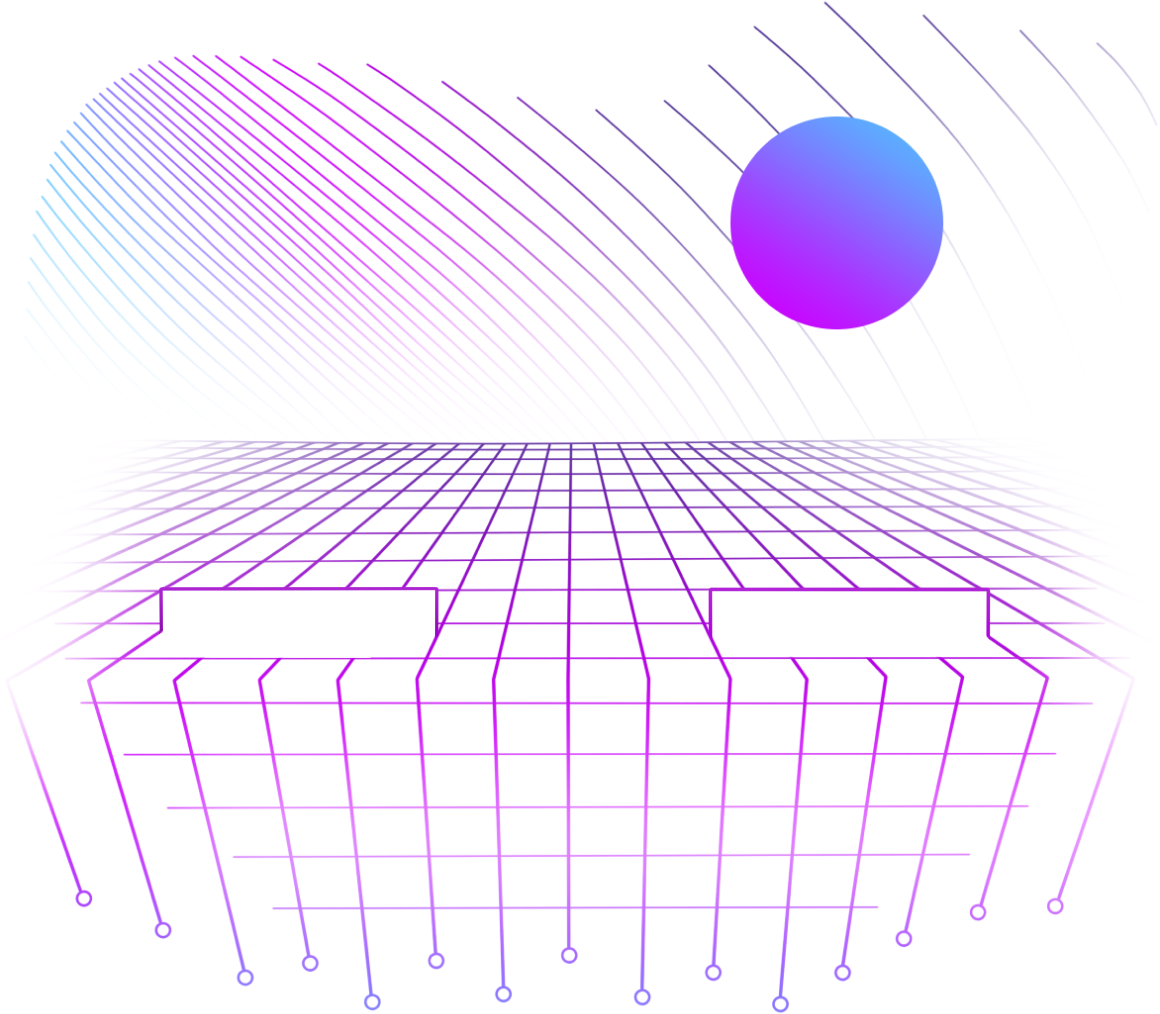
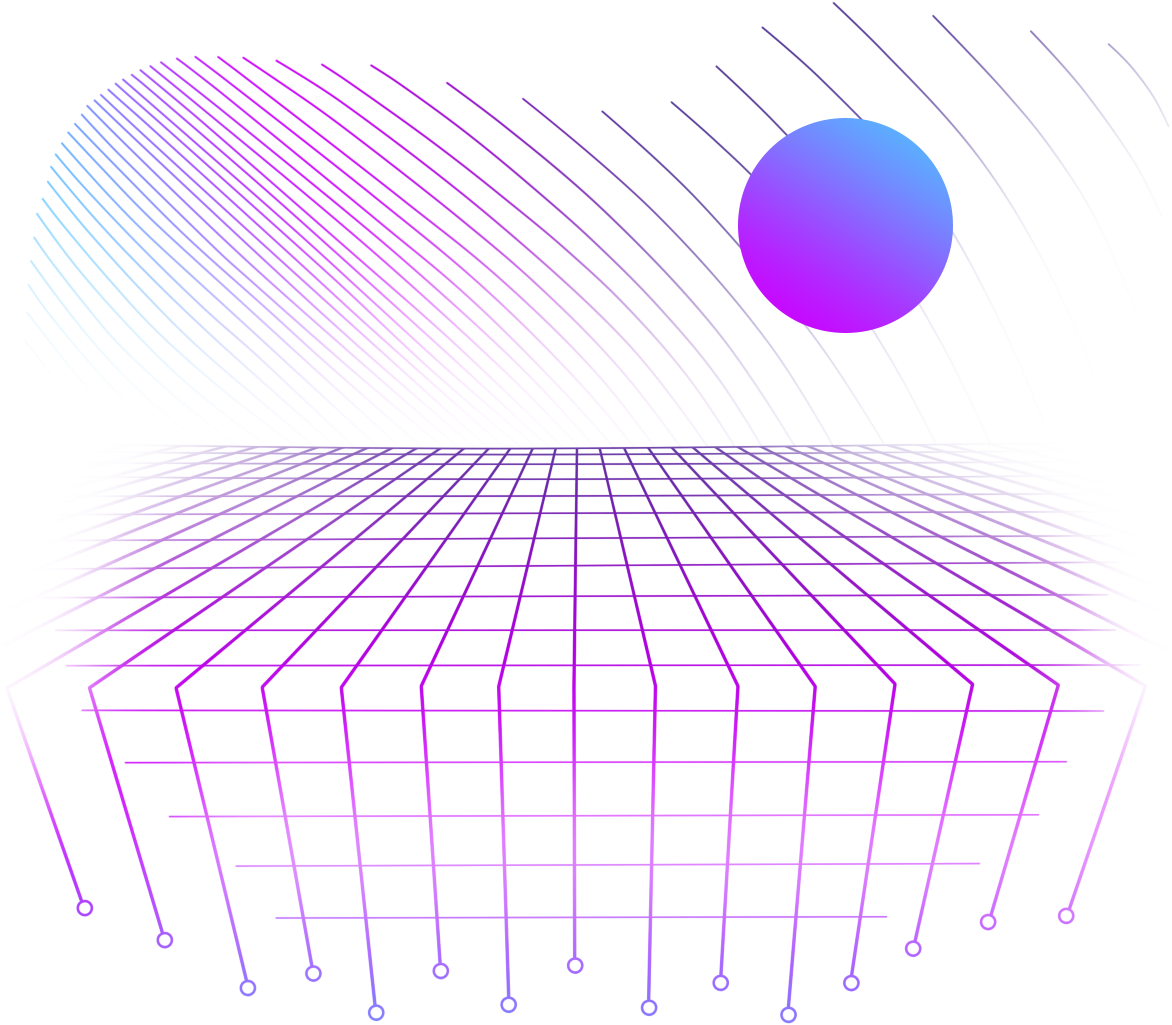
button from main removed. Title removed

Changed region(s): [[0.1241, 0.5809, 0.4034, 0.642], [0.5897, 0.5809, 0.869, 0.642]]

diff --git a/pages-content/home/mainScreen/mainScreen.module.scss b/pages-content/home/mainScreen/mainScreen.module.scss
@@ -1,194 +1,99 @@
 @use '../../../assets/styles/index.scss' as *;
 
 .mainScreen {
-    width: 100%;
-    padding: 0 rem(350);
-    margin-top: rem(100);
-    @media screen and (max-width: point(lg)) {
-        padding: 0 rem(150);
-    }
-    @media screen and (max-width: point(md)) {
-        padding: 0 rem(100);
-    }
-    @media screen and (max-width: point(sm)) {
-        padding: 0 rem(16);
-    }
+  width: 100%;
+  padding: 0 rem(350);
+  margin-top: rem(100);
+  @media screen and (max-width: point(lg)) {
+    padding: 0 rem(150);
+  }
+  @media screen and (max-width: point(md)) {
+    padding: 0 rem(100);
+  }
+  @media screen and (max-width: point(sm)) {
+    padding: 0 rem(16);
+  }
 }
 
 .mainScreen__content {
-    position: relative;
+  position: relative;
+  width: 100%;
+  height: 100%;
+  display: flex;
+  justify-content: center;
+  align-items: center;
+
+  .content__background {
     width: 100%;
     height: 100%;
-    display: flex;
-    justify-content: center;
+    z-index: -1;
+  }
+
+  .backgroundMobile {
+    display: none !important;
+    width: 100%;
+
+    > span {
+      width: 100% !important;
+      left: 50% !important;
+      transform: translateX(-50%) scale(1.1) !important;
+    }
+    img {
+      min-width: 100% !important;
+      height: auto !important;
+    }
+
+    @media screen and (max-width: point(sm)) {
+      display: flex !important;
+      align-items: center;
+      justify-content: center;
+    }
+  }
+  .backgroundDesktop {
+    display: flex !important;
     align-items: center;
-
-    .content__background {
-        width: 100%;
-        height: 100%;
-        z-index: -1;
+    justify-content: center;
+    width: 100%;
+    > span {
+      width: 100% !important;
+    }
+    img {
+      min-width: 100% !important;
+      height: auto !important;
     }
 
-    .backgroundMobile {
-        display: none !important;
-        width: 100%;
-
-        > span {
-            width: 100% !important;
-            left: 50% !important;
-            transform: translateX(-50%) scale(1.1) !important;
-        }
-        img {
-            min-width: 100% !important;
-            height: auto !important;
-        }
-
-        @media screen and (max-width: point(sm)) {
-            display: flex !important;
-            align-items: center;
-            justify-content: center;
-        }
+    @media screen and (max-width: point(sm)) {
+      display: none !important;
     }
-    .backgroundDesktop {
-        display: flex !important;
-        align-items: center;
-        justify-content: center;
-        width: 100%;
-        > span {
-            width: 100% !important;
-        }
-        img {
-            min-width: 100% !important;
-            height: auto !important;
-        }
-
-        @media screen and (max-width: point(sm)) {
-            display: none !important;
-        }
-    }
-
-    .content__buttons {
-        position: absolute;
-        top: 0; left: 0;
-        width: 100%;
-        height: 100%;
-        display: flex;
-        justify-content: center;
-        align-items: center;
-        z-index: 1;
-        @media screen and (max-width: point(sm)) {
-            flex-direction: column;
-
-            > :first-child {
-                margin-top: rem(65);
-            }
-            > :not(:first-child) {
-                margin-top: rem(37);
-            }
-        }
-    }
-    
+  }
 }
 
 .mainScreen__title {
+  position: absolute;
+  max-width: rem(478);
+  z-index: 2;
+  top: rem(180);
+  left: rem(140);
+  @media screen and (max-width: point(md)) {
+    left: rem(0);
+    top: rem(110);
+  }
+  @media screen and (max-width: point(sm)) {
+    max-width: rem(210);
+    left: rem(10);
+    top: rem(10);
+  }
+
+  &::before {
+    content: attr(data-text);
     position: absolute;
-    max-width: rem(478);
-    z-index: 2;
-    top: rem(180);
-    left: rem(140);
-    @media screen and (max-width: point(md)) {
-        left: rem(0);
-        top: rem(110);
-    }
-    @media screen and (max-width: point(sm)) {
-        max-width: rem(210);
-        left: rem(10);
-        top: rem(10);
-    }
-
-    &::before {
-        content: attr(data-text);
-        position: absolute;
-        top: 0; left: 0;
-        transform: translateX(-3px);
-        background: linear-gradient(85.27deg, #CC00FF 0%, #50BFFF 100%);
-        -webkit-background-clip: text;
-        -webkit-text-fill-color: transparent;
-        background-clip: text;
-        text-fill-color: transparent;
-        filter: blur(4px);
-        z-index: -1;
-    }
-}
-
-
-.mainScreen__button {
-    position: absolute !important;
-    top: rem(580);
-    transition: transform .3s ease;
-    > * {
-        background-color: transparent !important;
-    }
-    > *::before {
-        display: none;
-    }
-
-    @media screen and (max-width: point(md)) {
-        top: rem(442);
-    }
-    @media screen and (max-width: point(sm)) {
-        position: static !important;
-        top: 0;
-        > * {
-            background-color: color(dark100) !important;
-            width: rem(145);
-        }
-        > *::before {
-            display: block !important;
-        }
-    }
-
-    &:hover {
-        transform: translateY(-10px);
-    }
-
-
-    &.button1 {
-        left: rem(145);
-        @media screen and (min-width: point(md)) {
-            transform: perspective(474px) rotateX(-10deg) rotateY(-7deg) rotate(-0.5deg) translateX(7px) translateY(-2px);
-            transform-origin: right;
-        }
-        @media screen and (min-width: point(sm)) {
-            transform: perspective(474px) rotateX(-10deg) rotateY(-7deg) rotate(-0.5deg) translateX(7px) translateY(0px);
-            transform-origin: right;
-        }
-
-    }
-    &.button2 {
-        left: rem(735);
-        @media screen and (min-width: point(md)) {
-            transform: perspective(474px) rotateX(-12deg) rotateY(3deg) rotate(0.5deg) translateX(-20px) translateY(-3px);
-            transform-origin: left;
-        }
-        @media screen and (min-width: point(sm)) {
-            transform: perspective(474px) rotateX(-12deg) rotateY(3deg) rotate(0.5deg) translateX(-10px) translateY(0px);
-            transform-origin: left;
-        }
-
-    }
-    @media screen and (max-width: point(md)) {
-        &.button1 { left: rem(100); }
-        &.button2 { left: rem(556); }
-
-        > * {
-            font-size: rem(26) !important;
-        }
-    }
-    @media screen and (max-width: point(sm)) {
-        > * {
-            font-size: font(16) !important;
-        }
-    }
-
+    top: 0;
+    left: 0;
+    transform: translateX(-3px);
+    background: linear-gradient(85.27deg, #cc00ff 0%, #50bfff 100%);
+    -webkit-background-clip: text;
+    -webkit-text-fill-color: transparent;
+    filter: blur(4px);
+    z-index: -1;
+  }
 }

diff --git a/pages-content/home/mainScreen/mainScreen.js b/pages-content/home/mainScreen/mainScreen.js
@@ -1,68 +1,29 @@
 import styles from './mainScreen.module.scss'
-import cn from 'classnames'
 import { useLocales } from '../../../hooks/useLocales'
 
 import Image from 'next/image'
 import backgroundImage from './assets/background.png'
 import backgroundMobileImage from './assets/background@mobile.png'
 
-import Button from '../../../components/UI/button/button'
-import { scrollTo } from '../../../utils/scrollTo'
-
-
 const mainScreen = () => {
-    const locale = useLocales('pages.home.main-screen')
-    return (
-        <div className={styles.mainScreen}>
-            <div className={styles.mainScreen__content}>
-                <h1 data-text={ locale.title } className={styles.mainScreen__title}>{ locale.title }</h1>
-                <div className={styles.content__buttons}>
-
-                    <Button
-                        className={cn(styles.mainScreen__button, styles[`button${1}`])}
-                        link={ locale.cta[0].link }
-                        label="outlineGradient"
-                        type="big"
-                        onClick={(e) => {
-                            e.preventDefault()
-                            scrollTo('#materials')
-                        }}
-                    >
-                        { locale.cta[0].title }
-                    </Button>
-
-                    <Button
-                        className={cn(styles.mainScreen__button, styles[`button${2}`])}
-                        link={ locale.cta[1].link }
-                        label="outlineGradient"
-                        type="big"
-                        onClick={(e) => {
-                            e.preventDefault()
-                            scrollTo('#features')
-                        }}
-                    >
-                        { locale.cta[1].title }
-                    </Button>
-                </div>
-                <div className={styles.content__background}>
-                    <div className={styles.backgroundDesktop}>
-                        <Image 
-                            src={backgroundImage} 
-                            priority={true} 
-                            alt=""
-                        />
-                    </div>
-                    <div className={styles.backgroundMobile}>
-                        <Image 
-                            src={backgroundMobileImage} 
-                            priority={true} 
-                            alt=""
-                        />
-                    </div>
-                </div>
-            </div>
+  const locale = useLocales('pages.home.main-screen')
+  return (
+    <div className={styles.mainScreen}>
+      <div className={styles.mainScreen__content}>
+        <h1 data-text={locale.title} className={styles.mainScreen__title}>
+          {locale.title}
+        </h1>
+        <div className={styles.content__background}>
+          <div className={styles.backgroundDesktop}>
+            <Image src={backgroundImage} priority={true} alt='' />
+          </div>
+          <div className={styles.backgroundMobile}>
+            <Image src={backgroundMobileImage} priority={true} alt='' />
+          </div>
         </div>
-    )
+      </div>
+    </div>
+  )
 }
 
 export default mainScreen
